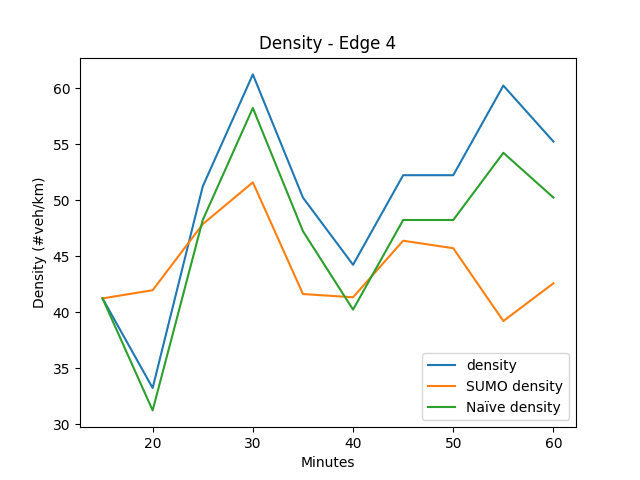
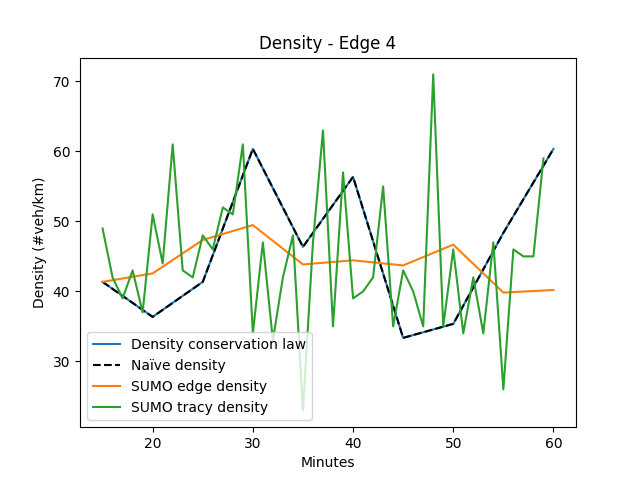
density estimation: update data and plots

diff --git a/lab3/density_estimation/extract_densities.py b/lab3/density_estimation/extract_densities.py
@@ -91,13 +91,13 @@ if __name__ == "__main__":
     left = np.array(vals['il1_end']['flow'])+np.array(vals['il2_end']['flow']) +np.array(vals['il3_end']['flow'])
     deltas_q = entered - left
 
-    dens = densities(traci_densities[0], deltas_q)
+    dens = densities(sumo_densities[0], deltas_q)
 
     entered_quant = np.array(vals['il1_start']['nVehContrib'])+np.array(vals['il2_start']['nVehContrib']) +np.array(vals['il3_start']['nVehContrib'])
     left_quant = np.array(vals['il1_end']['nVehContrib'])+np.array(vals['il2_end']['nVehContrib']) +np.array(vals['il3_end']['nVehContrib'])
     deltas_quant = entered_quant - left_quant
 
-    dens_naive = densities_naive(traci_densities[0],deltas_quant)
+    dens_naive = densities_naive(sumo_densities[0],deltas_quant)
 
     minutes = np.array(range(len(dens))) * 5 + 15
     plt.plot(minutes,dens, label='Density conservation law')
